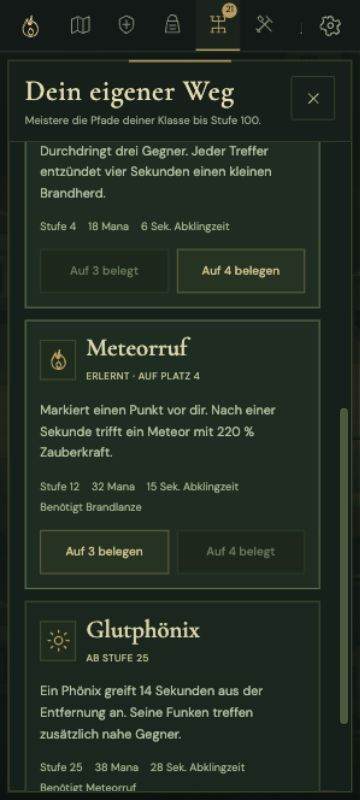
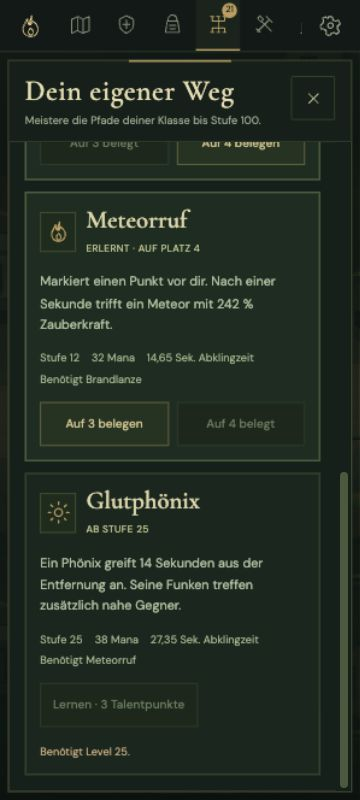
Update Site source

diff --git a/src/abilities.js b/src/abilities.js
@@ -2,44 +2,56 @@
  * Base class actions Q / F are independent and stay available from level one.
  * Data contains costs and effects; Game resolves them on the authority only.
  */
-const active=(classId,suffix,name,description,level,kind,options={})=>Object.freeze({
+import { classPowerMultiplier } from './balance.js';
+
+const active=(classId,suffix,name,description,level,kind,options={})=>{
+  const ability={
   id:`${classId}_${suffix}`,classId,name,description,level,minLevel:level,
   talentCost:level===4?1:level===12?2:3,cost:18,cooldown:8,icon:'✦',
   requires:null,kind,stat:'spellDamage',damageMultiplier:0,color:'#c7b4df',
   powerKind:kind==='summon'?'summon':['mend','regeneration','revive'].includes(kind)?'heal':options.stat==='damage'?'attack':'spell',...options,
-});
+  };
+  const percentages={
+    damage:ability.damageMultiplier*classPowerMultiplier(classId,ability.powerKind),
+    execute:ability.executeMultiplier*classPowerMultiplier(classId,ability.powerKind),
+    shield:ability.shieldFraction*classPowerMultiplier(classId,'shield'),
+    drain:ability.drain*classPowerMultiplier(classId,'heal'),
+  };
+  ability.description=description.replace(/\{(damage|execute|shield|drain)\}/g,(_,key)=>(percentages[key]*100).toLocaleString('de-DE',{maximumFractionDigits:2}));
+  return Object.freeze(ability);
+};
 
 export const ABILITIES=Object.freeze([
-  active('guardian','bulwark','Schildstoß','Trifft Gegner vor dir mit 75 % Angriffsschaden und verlangsamt sie zwei Sekunden um 45 %.',4,'cone',{cost:14,cooldown:8,range:120,arc:1.8,stat:'damage',damageMultiplier:.75,slow:.45,duration:2,knockback:16,icon:'⬡',color:'#a4b6bb'}),
+  active('guardian','bulwark','Schildstoß','Trifft Gegner vor dir mit {damage} % Angriffsschaden und verlangsamt sie zwei Sekunden um 45 %.',4,'cone',{cost:14,cooldown:8,range:120,arc:1.8,stat:'damage',damageMultiplier:.75,slow:.45,duration:2,knockback:16,icon:'⬡',color:'#a4b6bb'}),
   active('guardian','challenge','Herausforderung','Stürmt 160 Schritte vor und zwingt Gegner am Ziel sechs Sekunden zu dir. Hindernisse stoppen den Ansturm.',12,'taunt',{requires:'guardian_bulwark',cost:24,cooldown:18,chargeRange:160,radius:280,duration:6,shieldFraction:.1,icon:'⚑',color:'#c9b985'}),
-  active('guardian','sunder','Schildbrecher','Schwerer Hieb vor dir: 220 % Angriffsschaden, Rückstoß und zwei Sekunden starke Verlangsamung.',25,'cone',{requires:'guardian_challenge',cost:28,cooldown:10,range:135,arc:1.6,stat:'damage',damageMultiplier:2.2,knockback:28,slow:.65,duration:2,icon:'⚔',color:'#dec79b'}),
+  active('guardian','sunder','Schildbrecher','Schwerer Hieb vor dir: {damage} % Angriffsschaden, Rückstoß und zwei Sekunden starke Verlangsamung.',25,'cone',{requires:'guardian_challenge',cost:28,cooldown:10,range:135,arc:1.6,stat:'damage',damageMultiplier:2.2,knockback:28,slow:.65,duration:2,icon:'⚔',color:'#dec79b'}),
 
   active('paladin','mend','Lichtbeistand','Heilt den am stärksten verwundeten lebenden Gefährten in 350 Schritten. Erreicht auch entfernte Mitstreiter.',4,'mend',{cost:18,cooldown:7,radius:350,healMultiplier:1.4,healFraction:.04,icon:'✚',color:'#f3d698'}),
   active('paladin','consecration','Weihegrund','Fünf Sekunden heiliger Boden: verletzt Gegner und heilt Verbündete jede Sekunde.',12,'sanctum',{requires:'paladin_mend',cost:28,cooldown:16,radius:135,duration:5,damageMultiplier:.22,healMultiplier:.12,icon:'☀',color:'#e7ca87'}),
-  active('paladin','aegis','Gemeinsamer Eid','Schützt lebende Gefährten im Umkreis sechs Sekunden mit einem Schild aus 12 % ihres maximalen Lebens.',25,'partyShield',{requires:'paladin_consecration',cost:36,cooldown:22,radius:260,duration:6,shieldFraction:.12,icon:'⬡',color:'#efd7a1'}),
+  active('paladin','aegis','Gemeinsamer Eid','Schützt lebende Gefährten im Umkreis sechs Sekunden mit einem Schild aus {shield} % ihres maximalen Lebens.',25,'partyShield',{requires:'paladin_consecration',cost:36,cooldown:22,radius:260,duration:6,shieldFraction:.12,icon:'⬡',color:'#efd7a1'}),
 
-  active('ranger','volley','Fächerschuss','Fünf Pfeile decken einen breiten Fächer ab. Jeder verursacht 45 % Angriffsschaden.',4,'fan',{cost:16,cooldown:7,count:5,spread:.7,range:650,speed:620,stat:'damage',damageMultiplier:.45,icon:'➤',color:'#b5cf83'}),
+  active('ranger','volley','Fächerschuss','Fünf Pfeile decken einen breiten Fächer ab. Jeder verursacht {damage} % Angriffsschaden.',4,'fan',{cost:16,cooldown:7,count:5,spread:.7,range:650,speed:620,stat:'damage',damageMultiplier:.45,icon:'➤',color:'#b5cf83'}),
   active('ranger','snare','Jägerfalle','Platziert bis zu 260 Schritte vor dir eine Falle. Der erste Gegner löst Schaden und vier Sekunden starke Verlangsamung aus.',12,'trap',{requires:'ranger_volley',cost:22,cooldown:11,range:260,radius:85,duration:8,slow:.8,slowDuration:4,stat:'damage',damageMultiplier:1.25,icon:'⌘',color:'#97b574'}),
-  active('ranger','hawk','Hainfalke','Ein Falke begleitet dich 20 Sekunden und greift aus der Entfernung mit 45 % Angriffsschaden an.',25,'summon',{requires:'ranger_snare',cost:32,cooldown:30,duration:20,count:1,ranged:true,range:380,attackCooldown:1.15,stat:'damage',damageMultiplier:.45,icon:'❧',color:'#d2d49a'}),
+  active('ranger','hawk','Hainfalke','Ein Falke begleitet dich 20 Sekunden und greift aus der Entfernung mit {damage} % Angriffsschaden an.',25,'summon',{requires:'ranger_snare',cost:32,cooldown:30,duration:20,count:1,ranged:true,range:380,attackCooldown:1.15,stat:'damage',damageMultiplier:.45,icon:'❧',color:'#d2d49a'}),
 
-  active('nightblade','fan','Klingenfächer','Kurzer, schneller Rundhieb vor dir: 125 % Angriffsschaden gegen alle getroffenen Gegner.',4,'cone',{cost:14,cooldown:5,range:115,arc:2,stat:'damage',damageMultiplier:1.25,knockback:8,icon:'⚔',color:'#c3a5d4'}),
+  active('nightblade','fan','Klingenfächer','Kurzer, schneller Rundhieb vor dir: {damage} % Angriffsschaden gegen alle getroffenen Gegner.',4,'cone',{cost:14,cooldown:5,range:115,arc:2,stat:'damage',damageMultiplier:1.25,knockback:8,icon:'⚔',color:'#c3a5d4'}),
   active('nightblade','smoke','Rauchschritt','Weicht 110 Schritte rückwärts aus und macht dich für 0,8 Sekunden unverwundbar. Hindernisse bleiben wirksam.',12,'escape',{requires:'nightblade_fan',cost:20,cooldown:14,range:110,duration:.8,icon:'↝',color:'#a48ab8'}),
-  active('nightblade','execute','Letzte Klinge','Trifft den schwächsten nahen Gegner. Unter 35 % Leben steigt der Schaden auf 300 %; heilt für 15 % echten Schadens.',25,'execute',{requires:'nightblade_smoke',cost:30,cooldown:12,range:155,stat:'damage',damageMultiplier:1.6,executeMultiplier:3,threshold:.35,drain:.15,icon:'◆',color:'#d4b5e5'}),
+  active('nightblade','execute','Letzte Klinge','Trifft den schwächsten nahen Gegner. Unter 35 % Leben steigt der Schaden auf {execute} %; heilt für {drain} % echten Schadens.',25,'execute',{requires:'nightblade_smoke',cost:30,cooldown:12,range:155,stat:'damage',damageMultiplier:1.6,executeMultiplier:3,threshold:.35,drain:.15,icon:'◆',color:'#d4b5e5'}),
 
   active('flamecaller','cinder','Brandlanze','Durchdringt drei Gegner. Jeder Treffer entzündet vier Sekunden einen kleinen Brandherd.',4,'projectile',{cost:18,cooldown:6,range:680,speed:490,piercing:3,damageMultiplier:.9,burnMultiplier:.15,duration:4,icon:'✦',color:'#e9a267'}),
-  active('flamecaller','meteor','Meteorruf','Markiert einen Punkt vor dir. Nach einer Sekunde trifft ein Meteor mit 220 % Zauberkraft.',12,'meteor',{requires:'flamecaller_cinder',cost:32,cooldown:15,range:300,radius:115,windup:1,damageMultiplier:2.2,knockback:18,icon:'☄',color:'#e8a66a'}),
+  active('flamecaller','meteor','Meteorruf','Markiert einen Punkt vor dir. Nach einer Sekunde trifft ein Meteor mit {damage} % Zauberkraft.',12,'meteor',{requires:'flamecaller_cinder',cost:32,cooldown:15,range:300,radius:115,windup:1,damageMultiplier:2.2,knockback:18,icon:'☄',color:'#e8a66a'}),
   active('flamecaller','phoenix','Glutphönix','Ein Phönix greift 14 Sekunden aus der Entfernung an. Seine Funken treffen zusätzlich nahe Gegner.',25,'summon',{requires:'flamecaller_meteor',cost:38,cooldown:28,duration:14,count:1,ranged:true,range:330,attackCooldown:1.1,damageMultiplier:.5,splashRadius:60,icon:'☀',color:'#f0bd7b'}),
 
-  active('frostweaver','shards','Splitterfächer','Drei Frostsplitter verursachen je 55 % Zauberkraft und verlangsamen zwei Sekunden.',4,'fan',{cost:17,cooldown:6,count:3,spread:.45,range:640,speed:500,damageMultiplier:.55,slow:.35,duration:2,icon:'❄',color:'#b6ddea'}),
-  active('frostweaver','barrier','Kristallhaut','Schützt dich sechs Sekunden mit einem Eisschild aus 20 % deines maximalen Lebens.',12,'shield',{requires:'frostweaver_shards',cost:24,cooldown:15,shieldFraction:.2,duration:6,icon:'⬡',color:'#c4e4ea'}),
+  active('frostweaver','shards','Splitterfächer','Drei Frostsplitter verursachen je {damage} % Zauberkraft und verlangsamen zwei Sekunden.',4,'fan',{cost:17,cooldown:6,count:3,spread:.45,range:640,speed:500,damageMultiplier:.55,slow:.35,duration:2,icon:'❄',color:'#b6ddea'}),
+  active('frostweaver','barrier','Kristallhaut','Schützt dich sechs Sekunden mit einem Eisschild aus {shield} % deines maximalen Lebens.',12,'shield',{requires:'frostweaver_shards',cost:24,cooldown:15,shieldFraction:.2,duration:6,icon:'⬡',color:'#c4e4ea'}),
   active('frostweaver','blizzard','Wandernder Winter','Beschwört vor dir sechs Sekunden Schneesturm. Jede Sekunde Schaden und Verlangsamung in der sichtbaren Fläche.',25,'storm',{requires:'frostweaver_barrier',cost:36,cooldown:18,range:180,radius:145,duration:6,damageMultiplier:.3,slow:.5,icon:'❄',color:'#a8d4df'}),
 
   active('druid','vines','Wurzelgriff','Ranken greifen nach Gegnern vor dir, verursachen Schaden und verlangsamen sie drei Sekunden um 85 %.',4,'cone',{cost:16,cooldown:8,range:145,arc:2.4,damageMultiplier:.7,slow:.85,duration:3,icon:'❧',color:'#9ac692'}),
-  active('druid','grove','Lebensrinde','Lebende Rinde schützt Gefährten in 240 Schritten acht Sekunden mit einem Schild aus 10 % ihres maximalen Lebens.',12,'partyShield',{requires:'druid_vines',cost:30,cooldown:22,radius:240,duration:8,shieldFraction:.1,icon:'❧',color:'#b5d6a0'}),
+  active('druid','grove','Lebensrinde','Lebende Rinde schützt Gefährten in 240 Schritten acht Sekunden mit einem Schild aus {shield} % ihres maximalen Lebens.',12,'partyShield',{requires:'druid_vines',cost:30,cooldown:22,radius:240,duration:8,shieldFraction:.1,icon:'❧',color:'#b5d6a0'}),
   active('druid','rebirth','Neuer Frühling','Erweckt einen gefallenen Gefährten in 220 Schritten mit 25 % Leben und zwei Sekunden Schutz. Braucht ein Ziel.',25,'revive',{requires:'druid_grove',cost:40,cooldown:75,radius:220,reviveFraction:.25,duration:2,icon:'✚',color:'#c6dfb0'}),
 
-  active('shadowbinder','curse','Hungriges Mal','Markiert einen nahen Gegner für fünf Sekunden. Jede Sekunde Schaden; 30 % echten Schadens heilen dich.',4,'curse',{cost:18,cooldown:9,range:300,duration:5,damageMultiplier:.24,drain:.3,icon:'☾',color:'#bc9ccc'}),
-  active('shadowbinder','legion','Flüsternde Schar','Beschwört drei kleine Seelen für zwölf Sekunden. Jeder Nahkampftreffer verursacht 28 % Zauberkraft.',12,'summon',{requires:'shadowbinder_curse',cost:32,cooldown:22,count:3,duration:12,range:310,attackCooldown:.95,damageMultiplier:.28,icon:'◈',color:'#ae91c1'}),
+  active('shadowbinder','curse','Hungriges Mal','Markiert einen nahen Gegner für fünf Sekunden. Jede Sekunde Schaden; {drain} % echten Schadens heilen dich.',4,'curse',{cost:18,cooldown:9,range:300,duration:5,damageMultiplier:.24,drain:.3,icon:'☾',color:'#bc9ccc'}),
+  active('shadowbinder','legion','Flüsternde Schar','Beschwört drei kleine Seelen für zwölf Sekunden. Jeder Nahkampftreffer verursacht {damage} % Zauberkraft.',12,'summon',{requires:'shadowbinder_curse',cost:32,cooldown:22,count:3,duration:12,range:310,attackCooldown:.95,damageMultiplier:.28,icon:'◈',color:'#ae91c1'}),
   active('shadowbinder','bargain','Blut und Äther','Opfert 15 % deines aktuellen Lebens für 30 % maximales Mana und einen kleinen Schild. Braucht mehr als 20 % Leben.',25,'bargain',{requires:'shadowbinder_legion',cost:0,cooldown:25,healthCost:.15,minHealth:.2,manaFraction:.3,shieldFraction:.08,duration:5,icon:'✚',color:'#c59aba'}),
 ]);
 

diff --git a/src/ui.js b/src/ui.js
@@ -8,6 +8,7 @@ import { MAX_LEVEL } from './progression.js';
 const escape = value => String(value ?? '').replace(/[&<>"']/g, char => ({'&':'&amp;','<':'&lt;','>':'&gt;','"':'&quot;',"'":'&#39;'}[char]));
 const icon = (name, classes = '') => `<svg class="${classes}" aria-hidden="true"><use href="#i-${name}" /></svg>`;
 const format = value => Math.round(Number(value) || 0).toLocaleString('de-DE');
+const seconds = value => Number(value).toLocaleString("de-DE",{maximumFractionDigits:2});
 const percent = value => `${((Number(value) || 0) * 100).toLocaleString('de-DE',{maximumFractionDigits:2})} %`;
 const statValue = (key,value) => ['crit','lifeSteal','cooldown','dodgeCooldown'].includes(key) ? percent(value) : (Number(value)||0).toLocaleString('de-DE',{maximumFractionDigits:2});
 const clamp = (value, min, max) => Math.max(min, Math.min(max, Number(value) || 0));
@@ -197,16 +198,17 @@ export class GameUI {
     const minutes = Math.floor((8 * 60 + seconds / 3) % (24 * 60));
     this.setText('world-time', `${String(Math.floor(minutes/60)).padStart(2,'0')}:${String(minutes%60).padStart(2,'0')}`);
     this.setText('world-weather', minutes < 600 ? 'Morgenlicht' : minutes < 1020 ? 'Tageslicht' : minutes < 1200 ? 'Abendglut' : 'Sternennacht');
-    this.updateCooldowns();
+    this.updateCooldowns(stats);
     const blocked=!game.started||Boolean(this.activePanel)||game.paused;
     document.querySelector('.touch-controls').hidden=blocked;
     document.querySelector('.touch-controls').inert=blocked;
     document.body.classList.toggle('gameplay-blocked',blocked);
   }
 
-  updateCooldowns() {
+  updateCooldowns(stats=this.game.stats()) {
     const currentClass = getClass(this.game.player?.classId);
-    const maxCooldown = {attack:currentClass.abilities.attack.cooldown,dash:1.35,nova:currentClass.abilities.nova.cooldown,bolt:currentClass.abilities.bolt.cooldown,potion:3};
+    const factor=1-(stats.cooldown||0);
+    const maxCooldown = {attack:currentClass.abilities.attack.cooldown,dash:Math.max(.4,1.35*(1-(stats.dodgeCooldown||0))),nova:currentClass.abilities.nova.cooldown*factor,bolt:currentClass.abilities.bolt.cooldown*factor,potion:3};
     if(this.lastAbilityClass!==currentClass.id) {
       this.lastAbilityClass=currentClass.id;
       for(const [action, ability] of Object.entries(currentClass.abilities)) {
@@ -219,6 +221,7 @@ export class GameUI {
       }
     }
     for(const [action,ability] of Object.entries(currentClass.abilities)) {
+      for(const control of document.querySelectorAll(`.ability[data-action="${action}"],[data-touch-action="${action}"]`))control.title=`${ability.name}${ability.cost?` · ${ability.cost} Mana`:""} · ${seconds(maxCooldown[action])} Sek. Abklingzeit`;
       const button=document.querySelector(`[data-touch-action="${action}"]`);if(!button)continue;
       button.querySelector('use').setAttribute('href',`#i-${abilityIcon(ability,currentClass.id)}`);button.setAttribute('aria-label',ability.name);
       if(action==='attack')button.querySelector('span').textContent='Angriff halten';
@@ -234,12 +237,12 @@ export class GameUI {
         button.querySelector('span').textContent=learned?learned.name:`Lernen ${Number(slot)+3}`;
         button.querySelector('use').setAttribute('href',`#i-${learnedIcon(learned)}`);
         button.setAttribute('aria-label',learned?`${learned.name}, Platz ${Number(slot)+3}`:`Fähigkeit für Platz ${Number(slot)+3} lernen`);
-        button.title=learned?`${learned.name} · ${learned.cost} Mana · ${learned.cooldown} Sek. Abklingzeit`:'Neue aktive Fähigkeiten lernen und auf 3 oder 4 belegen';
+        button.title=learned?`${learned.name} · ${learned.cost} Mana · ${seconds(learned.cooldown*factor)} Sek. Abklingzeit`:'Neue aktive Fähigkeiten lernen und auf 3 oder 4 belegen';
         button.classList.toggle('empty-slot',!learned);
       }
       button.classList.toggle('is-cooling', value > 0);
       const cover = button.querySelector('.cooldown-cover');
-      if (cover) cover.style.height = `${clamp(value / (learned?.cooldown || maxCooldown[action] || 1) * 100,0,100)}%`;
+      if (cover) cover.style.height = `${clamp(value / (learned?learned.cooldown*factor:maxCooldown[action]||1) * 100,0,100)}%`;
     }
   }
 
@@ -377,7 +380,7 @@ export class GameUI {
     const completed = Object.values(this.game.questState || {}).filter(state=>state.status==='done').length;
     const currentClass = getClass(player.classId);
     const values = ['damage','spellDamage','maxHp','mana','armor','crit','speed','manaRegen','lifeSteal','gatherYield','cooldown','dodgeCooldown'];
-    return `<div class="character-banner"><div class="character-seal" style="color:${currentClass.color}">${icon(classIcons[currentClass.id])}</div><div><h3>${escape(player.name || 'Aren')}</h3><p>${escape(currentClass.name)} · ${escape(currentClass.role)} · Stufe ${player.level || 1} / ${MAX_LEVEL}<br>${player.level>=MAX_LEVEL?'Höchste Stufe erreicht':`${format(player.xp)} / ${format(xpNeeded)} Erfahrung`} · ${format(player.skillPoints)} freie Talentpunkte</p></div></div><p class="panel-note">${escape(currentClass.description)}</p><div class="class-abilities">${Object.entries(currentClass.abilities).map(([key,ability])=>`<div>${icon(abilityIcon(ability,currentClass.id))}<strong>${escape(ability.name)}</strong><span>${key==='attack'?'J / Klick':key==='bolt'?'Q / 1':'F / 2'}${ability.cost?` · ${ability.cost} Mana`:''} · ${ability.cooldown} Sek.</span></div>`).join('')}</div><div class="stats-grid">${values.map(key=>`<div class="summary-stat"><span>${escape(statLabels[key])}</span><strong>${['crit','lifeSteal','cooldown','dodgeCooldown'].includes(key)?percent(stats[key]):Number(stats[key] || 0).toLocaleString('de-DE',{maximumFractionDigits:1})}</strong></div>`).join('')}</div><p class="panel-note"><button class="small-button" data-panel="talents">${icon('tree')}Neue Fähigkeiten lernen · ${getLearnedAbilities(this.game).length} / 3 erlernt</button></p><h3 class="section-title">Was du mit dir trägst</h3><div class="character-equipment">${this.equipmentSlots()}</div><p class="panel-note">${completed} von ${QUESTS.length} Questen abgeschlossen · ${(this.game.discovered || []).length} von ${REGIONS.length} Regionen entdeckt.<br>Mit jeder neuen Stufe erhältst du Talentpunkte. Neue Klassenpfade öffnen sich auf Stufe 12, 25, 40, 60 und 80.</p>`;
+    return `<div class="character-banner"><div class="character-seal" style="color:${currentClass.color}">${icon(classIcons[currentClass.id])}</div><div><h3>${escape(player.name || 'Aren')}</h3><p>${escape(currentClass.name)} · ${escape(currentClass.role)} · Stufe ${player.level || 1} / ${MAX_LEVEL}<br>${player.level>=MAX_LEVEL?'Höchste Stufe erreicht':`${format(player.xp)} / ${format(xpNeeded)} Erfahrung`} · ${format(player.skillPoints)} freie Talentpunkte</p></div></div><p class="panel-note">${escape(currentClass.description)}</p><div class="class-abilities">${Object.entries(currentClass.abilities).map(([key,ability])=>`<div>${icon(abilityIcon(ability,currentClass.id))}<strong>${escape(ability.name)}</strong><span>${key==='attack'?'J / Klick':key==='bolt'?'Q / 1':'F / 2'}${ability.cost?` · ${ability.cost} Mana`:''} · ${seconds(ability.cooldown*(key==="attack"?1:1-stats.cooldown))} Sek.</span></div>`).join('')}</div><div class="stats-grid">${values.map(key=>`<div class="summary-stat"><span>${escape(statLabels[key])}</span><strong>${['crit','lifeSteal','cooldown','dodgeCooldown'].includes(key)?percent(stats[key]):Number(stats[key] || 0).toLocaleString('de-DE',{maximumFractionDigits:1})}</strong></div>`).join('')}</div><p class="panel-note"><button class="small-button" data-panel="talents">${icon('tree')}Neue Fähigkeiten lernen · ${getLearnedAbilities(this.game).length} / 3 erlernt</button></p><h3 class="section-title">Was du mit dir trägst</h3><div class="character-equipment">${this.equipmentSlots()}</div><p class="panel-note">${completed} von ${QUESTS.length} Questen abgeschlossen · ${(this.game.discovered || []).length} von ${REGIONS.length} Regionen entdeckt.<br>Mit jeder neuen Stufe erhältst du Talentpunkte. Neue Klassenpfade öffnen sich auf Stufe 12, 25, 40, 60 und 80.</p>`;
   }
 
   talents() {
@@ -401,11 +404,11 @@ export class GameUI {
   }
 
   activeAbilities() {
-    const learned=getLearnedAbilities(this.game),abilities=ABILITIES.filter(ability=>ability.classId===this.game.player.classId);
+    const stats=this.game.stats(),learned=getLearnedAbilities(this.game),abilities=ABILITIES.filter(ability=>ability.classId===this.game.player.classId);
     return `<p class="panel-note">Deine Basisfähigkeiten bleiben auf Q und F. Lerne neue Techniken ab Stufe 4, 12 und 25 und belege zwei Zusatzplätze. Lernen verbraucht Talentpunkte; Belegen ist kostenlos.</p><div class="ability-loadout">${[0,1].map(slot=>`<label class="loadout-slot"><span>PLATZ ${slot+3} · ${this.game.abilityLoadout?.[slot]?'BELEGT':'FREI'}</span><select class="game-input" data-ability-loadout="${slot}" aria-label="Fähigkeit auf Platz ${slot+3}"><option value="">Keine Fähigkeit</option>${learned.map(ability=>`<option value="${ability.id}" ${this.game.abilityLoadout?.[slot]===ability.id?'selected':''}>${escape(ability.name)}</option>`).join('')}</select></label>`).join('')}</div><div class="learnable-abilities">${abilities.map(ability=>{
       const known=Boolean(this.game.learnedAbilities?.[ability.id]),check=canLearnAbility(this.game,ability.id),required=ability.requires?getAbility(ability.requires):null;
       const occupied=(this.game.abilityLoadout||[]).findIndex(id=>id===ability.id);
-      return `<article class="learnable-ability ${known?'learned':check.ok?'learnable':'locked'}"><div class="learnable-heading"><div class="item-icon">${icon(learnedIcon(ability))}</div><div><h3>${escape(ability.name)}</h3><span class="ability-state">${known?occupied>=0?`ERLERNT · AUF PLATZ ${occupied+3}`:'ERLERNT':check.ok?'LERNBAR':this.game.player.level<ability.level?`AB STUFE ${ability.level}`:'VORAUSSETZUNG FEHLT'}</span></div></div><p>${escape(ability.description)}</p><div class="ability-facts"><span>Stufe ${ability.level}</span><span>${ability.cost} Mana</span><span>${ability.cooldown} Sek. Abklingzeit</span>${required?`<span>Benötigt ${escape(required.name)}</span>`:''}</div>${known?`<div class="ability-equip-actions">${[0,1].map(slot=>`<button class="small-button ${occupied===slot?'subtle-button':''}" data-command="assign-ability" data-id="${ability.id}" data-slot="${slot}" ${occupied===slot?'disabled':''}>${occupied===slot?`Auf ${slot+3} belegt`:`Auf ${slot+3} belegen`}</button>`).join('')}</div>`:`<button class="small-button" data-command="learnAbility" data-id="${ability.id}" ${check.ok?'':'disabled'}>Lernen · ${ability.talentCost} Talentpunkt${ability.talentCost===1?'':'e'}</button>${!check.ok?`<p class="talent-requirement">${escape(check.reason)}</p>`:''}`}</article>`;
+      return `<article class="learnable-ability ${known?'learned':check.ok?'learnable':'locked'}"><div class="learnable-heading"><div class="item-icon">${icon(learnedIcon(ability))}</div><div><h3>${escape(ability.name)}</h3><span class="ability-state">${known?occupied>=0?`ERLERNT · AUF PLATZ ${occupied+3}`:'ERLERNT':check.ok?'LERNBAR':this.game.player.level<ability.level?`AB STUFE ${ability.level}`:'VORAUSSETZUNG FEHLT'}</span></div></div><p>${escape(ability.description)}</p><div class="ability-facts"><span>Stufe ${ability.level}</span><span>${ability.cost} Mana</span><span>${seconds(ability.cooldown*(1-stats.cooldown))} Sek. Abklingzeit</span>${required?`<span>Benötigt ${escape(required.name)}</span>`:''}</div>${known?`<div class="ability-equip-actions">${[0,1].map(slot=>`<button class="small-button ${occupied===slot?'subtle-button':''}" data-command="assign-ability" data-id="${ability.id}" data-slot="${slot}" ${occupied===slot?'disabled':''}>${occupied===slot?`Auf ${slot+3} belegt`:`Auf ${slot+3} belegen`}</button>`).join('')}</div>`:`<button class="small-button" data-command="learnAbility" data-id="${ability.id}" ${check.ok?'':'disabled'}>Lernen · ${ability.talentCost} Talentpunkt${ability.talentCost===1?'':'e'}</button>${!check.ok?`<p class="talent-requirement">${escape(check.reason)}</p>`:''}`}</article>`;
     }).join('')}</div>`;
   }
 

diff --git a/tests/ui-mobile-progression.test.js b/tests/ui-mobile-progression.test.js
@@ -34,3 +34,20 @@ test('learning UI explains prerequisites and turns a learned technique into a re
   await ui.assignAbility(1,null);assert.deepEqual(game.abilityLoadout,[null,null]);assert.match(ui.activeAbilities(),/ERLERNT/);
   game.player.level=12;assert.equal(game.learnAbility('guardian_challenge'),true);assert.match(ui.activeAbilities(),/Herausforderung/);
 });
+
+test('skill descriptions and equipped cooldown previews match the actual balanced cast',()=>{
+  const game=new Game({storage:null,random:()=>.5});game.selectClass('flamecaller');
+  game.player.level=12;game.player.skillPoints=6;
+  const staff=generateLoot({level:12,classId:'flamecaller',rarity:'epic',baseId:'ember_wand',uid:'skill-preview-staff',rng:()=>.5});
+  game.addItem(staff);assert.equal(game.equip(staff.id),true);
+  assert.equal(game.learnAbility('flamecaller_cinder'),true);assert.equal(game.learnAbility('flamecaller_meteor'),true);
+  game.player.mana=game.stats().mana;game.start();assert.equal(game.useLearnedAbility(1),true);
+  const meteor=game.hazards.find(h=>h.kind==='meteor');
+  assert.ok(Math.abs(meteor.damage/game.stats().spellDamage-2.42)<1e-8);
+  const html=view(game).activeAbilities();assert.match(html,/242 % Zauberkraft/);
+  const realCooldown=game.cooldowns['ability:flamecaller_meteor'];assert.ok(realCooldown<15);
+  assert.ok(html.includes(`${realCooldown.toLocaleString('de-DE',{maximumFractionDigits:2})} Sek. Abklingzeit`));
+  for(const [classId,text]of [['guardian','58,5 % Angriffsschaden'],['paladin','8,4 % ihres maximalen Lebens'],['shadowbinder','15 % echten Schadens']]){
+    const other=new Game({storage:null});other.selectClass(classId);assert.ok(view(other).activeAbilities().includes(text));
+  }
+});

diff --git a/README.md b/README.md
@@ -69,6 +69,8 @@ Auf dem Handy ziehst du den **Joystick in acht Richtungen**. Acht Aktionsfläche
 
 Abgebrochene Berührungen, verlorene Pointer-Captures, Appwechsel und geöffnete Menüs setzen die Touch-Eingaben zurück. Die Oberfläche hat mindestens 44 Pixel hohe Aktionstasten, scrollbare Menüs und eigene Layouts für Hoch- und Querformat. Dynamische Viewporthöhe und Safe Areas berücksichtigen Browserleisten und Bildschirmränder. Geräteübergreifende Bildraten und langfristige Ergonomie müssen weiter auf echten Smartphones geprüft werden.
 
+Über die Einstellungen erreichst du auf dem Handy alle acht Menüs direkt, einschließlich der Gruppe. Die [mobile Browserprüfung](docs/mobile-qa.md) dokumentiert die getesteten Ansichten und Aktionen.
+
 ## Acht Klassen
 
 | Klasse | Rolle und Fähigkeiten |
@@ -87,6 +89,8 @@ Die Klasse wird für die jeweilige Reise gewählt. Eigene Talentpfade öffnen si
 ## Neue aktive Fähigkeiten lernen
 
 Öffne **Talente → Aktive Fähigkeiten** mit T oder über das Menü. Jede Klasse erhält drei zusätzliche Techniken ab **Stufe 4, 12 und 25**, für **1, 2 und 3 Talentpunkte**. Die zweite Technik setzt die erste voraus, die dritte die zweite. Die Anzeige erklärt Stufe, Lernvoraussetzung, Mana, Abklingzeit und verfügbare Punkte. Die bisherigen Grundfähigkeiten auf Q/F und die passiven Talentpfade bleiben verfügbar.
+
+Die Prozentangaben berücksichtigen die Klassenbalance. Die angezeigten Abklingzeiten beziehen Ausrüstung und Talente ein; passende Ausrüstung verkürzt auch die Abklingzeitanzeige der Aktionsbuttons.
 
 | Klasse | Stufe 4 · 1 Punkt | Stufe 12 · 2 Punkte | Stufe 25 · 3 Punkte |
 | --- | --- | --- | --- |

diff --git a/docs/mobile-qa.md b/docs/mobile-qa.md
@@ -8,6 +8,7 @@ Browserprüfung am 13. Oktober 2026 gegen einen separaten lokalen Testserver. Di
 - Alle acht Menüs lassen sich auf kleinen Handys auch über die Einstellungen öffnen. Der Weg Einstellungen → Gruppe wurde direkt im Browser geprüft.
 - Flammenrufer auf Stufe 12: Brandlanze für einen und Meteorruf für zwei Talentpunkte gelernt, automatisch auf 3/4 gelegt. Glutphönix bleibt mit der Voraussetzung Stufe 25 gesperrt.
 - Beide gelernten Fähigkeiten über ihre Touchbuttons ausgeführt: Mana wird verbraucht und der Button zeigt seine Abklingzeit. Joystick und Halteangriff wurden über Browser-Eingaben bedient.
+- Die Skillbeschreibung verwendet die wirksamen Klassenwerte: Meteorruf zeigt 242 % Zauberkraft. Der ausgerüstete Stab verkürzt die angezeigte Abklingzeit von 15 auf 14,65 Sekunden; eine Regression vergleicht die Anzeige mit einem tatsächlichen Cast.
 - Epischen Stufe-12-Zauberstab im Inventar angelegt: Zauberkraft 88,2 → 163,35. Mit seltener Rüstung und Amulett: Zauberkraft 174,44, maximale Lebenspunkte 230,4 → 372,02. Der Vergleich zeigt die tatsächlichen Gesamtwerte einschließlich negativer Änderungen.
 - Waffe in der Charakteransicht abgelegt und denselben Gegenstand wieder im Inventar angelegt. Der Gegenstand bleibt erhalten; Ablegen entfernt seine Werte. Das Anlegen zusätzlicher Lebenspunkte füllt das aktuelle Leben nicht auf.
 - Ein Stufe-40-Stab bleibt auf Stufe 12 gesperrt. Lernen, Skillplätze und Ausrüstung sind nach Neuladen und „Gespeicherte Reise fortsetzen“ erhalten.
